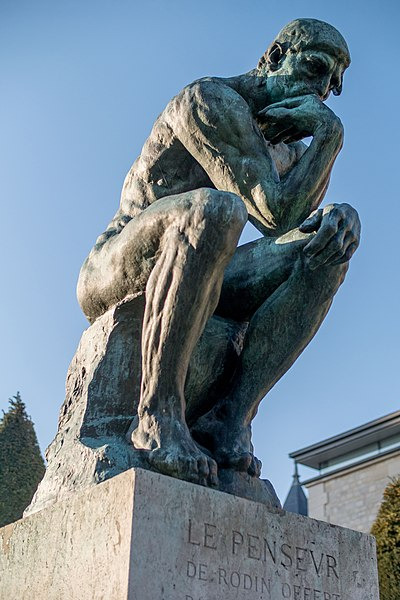
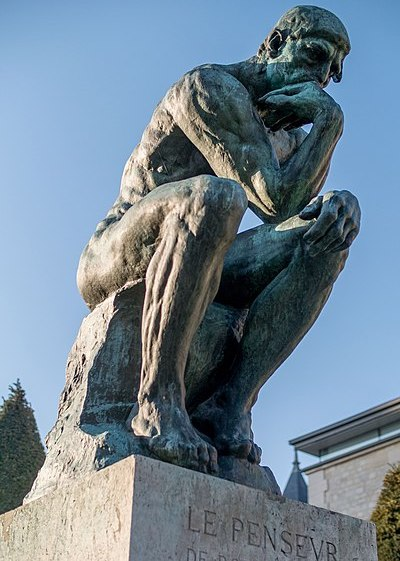
Update blog, about and images

Changed region(s): [[0.0, 0.0, 1.0, 1.0]]

diff --git a/content/Seeker_Within.md b/content/Seeker_Within.md
@@ -17,7 +17,7 @@ As we grow older, we start to play more and more in the world. The world is so v
 At some point we encounter some hard(relatively) questions, realisations about reality. The idea of the world we had in our head changes, becomes deeper in a sense. The older model still worked for many cases but this new model gives a certain depth, sometimes emotional or intellectual. It maps reality more accurately. Models of world are carved within while playing. Everyday begins a new adventure or sometimes removing boredom becomes a challenge in itself. This is our becoming more than we were, uncovering reality, discovering sometimes rediscovering old aspects of ourselves, like a plant even our mental/psychological aspects grow.
 
 
-<img src="/sprout-plant.jpg" alt="growth" width="400"/>
+<img src="/sprout-plant.jpg" alt="growth" width="350"/>
 
 
 More time passes. Even though most of us came here confused but by now some of us have collected some answers or pieces of answers, others forgot the questions or outright ignored them. We sprint through life trying to live and make best of our circumstances. Eventually some form of midlife, quarter life crisis will re-trigger the patterns of revising our models of the world of ourselves and our place here. We try to collect some meaning, sometimes to bear the suffering in life or to make the most of living itself.
@@ -25,10 +25,10 @@ More time passes. Even though most of us came here confused but by now some of u
 While going through life, who is collecting? Collecting the meaning, the questions, the answers all the while living. Even if not explicitly within the conscious part. This aspect of yourself I’m calling the Seeker. The aspect that isn’t easily satisfied, looking for something deeper, perplexed by some very hard questions.
 
 [Existentialism](https://en.wikipedia.org/wiki/Existentialism) is a form of philosophical inquiry that explores the problem of human existence and centres on the lived experience of the thinking, feeling, acting  individual. 
-There are some very hard questions in your bag, you collected encountered and you have the **need** to solve them. The seeker aspect is a wanderer, clearly we don’t know the answer yet. Some give up, call it absurd a sort of pride in the conclusion that there is nothing to it and they know it. The pride is in the strength of being able to accept that which isn’t, but deep down there was a wish of something to it. In my opinion they just give up, for many after herculean efforts and for others looking at such efforts and following their answers. The absurdity is in the lack of elegance, to exist, seek and yet nothing to it creates a void.
-If there was some deep rooted/underlying meaning to existence then that could be used to generate meaning as much as needed as that is why there is existence, an inherent underlying ocean of meaning. Respite to that painful existential thirst.
+There are some very hard questions in your bag, you collected encountered and you have the **need** to solve them. The seeker aspect is a wanderer, clearly we don’t know the answers yet. Some give up, call it absurd a sort of pride in the conclusion that there is nothing to it and they know it. The pride is in the strength of being able to accept that which isn’t while most remain deluded, but deep down there was a wish of something to it. In my opinion they just give up(concluded), for many after herculean efforts and for others looking at such efforts and following their answers. The absurdity is in the lack of elegance, to exist, seek and yet nothing to it evokes such a reaction.
+If there is some deep rooted/underlying meaning to existence then that could be used to generate meaning as much as needed as that is why there is existence, an inherent underlying ocean of meaning and purpose. Respite to that painful existential thirst.
 
-![Le_Penseur_in_the_Jardin_du_Musée_Rodin](/thinking-man.jpg)
+<img src="/thinking-man.jpg" alt="Le_Penseur_in_the_Jardin_du_Musée_Rodin" width="320" height="450"/>
 
 Recognise that seeker within, nurture it. Look for the signal within the noise, the lighthouse in this terrifying world ocean. A single candle illuminating dense murky  darkness. Seemingly scary questions, don’t run from it or take it personally. Why ignore what one has to face eventually, delayed gratification in here would give dividends to a much more meaningful and joyous existence. This seeker is a meaning generating part of your being. It can get clogged by too many piled up questions or unintegrated answers.
 

diff --git a/content/pages/about.md b/content/pages/about.md
@@ -10,4 +10,4 @@ I'm a software engineer, budding entrepreneur, deeply into spirituality. I am a 
 
 I started this blog mainly to practice my writing, which isn't great to be honest.
 
-Posts will range across various topics, some dev, learning, growth, startups, personal experiences, meditation, psychology, health and esoteric eclectic world views.
+Posts will range across various topics, some dev, learning, growth, startups, personal experiences, meditation, philosophy, psychology, health and esoteric eclectic world views.
